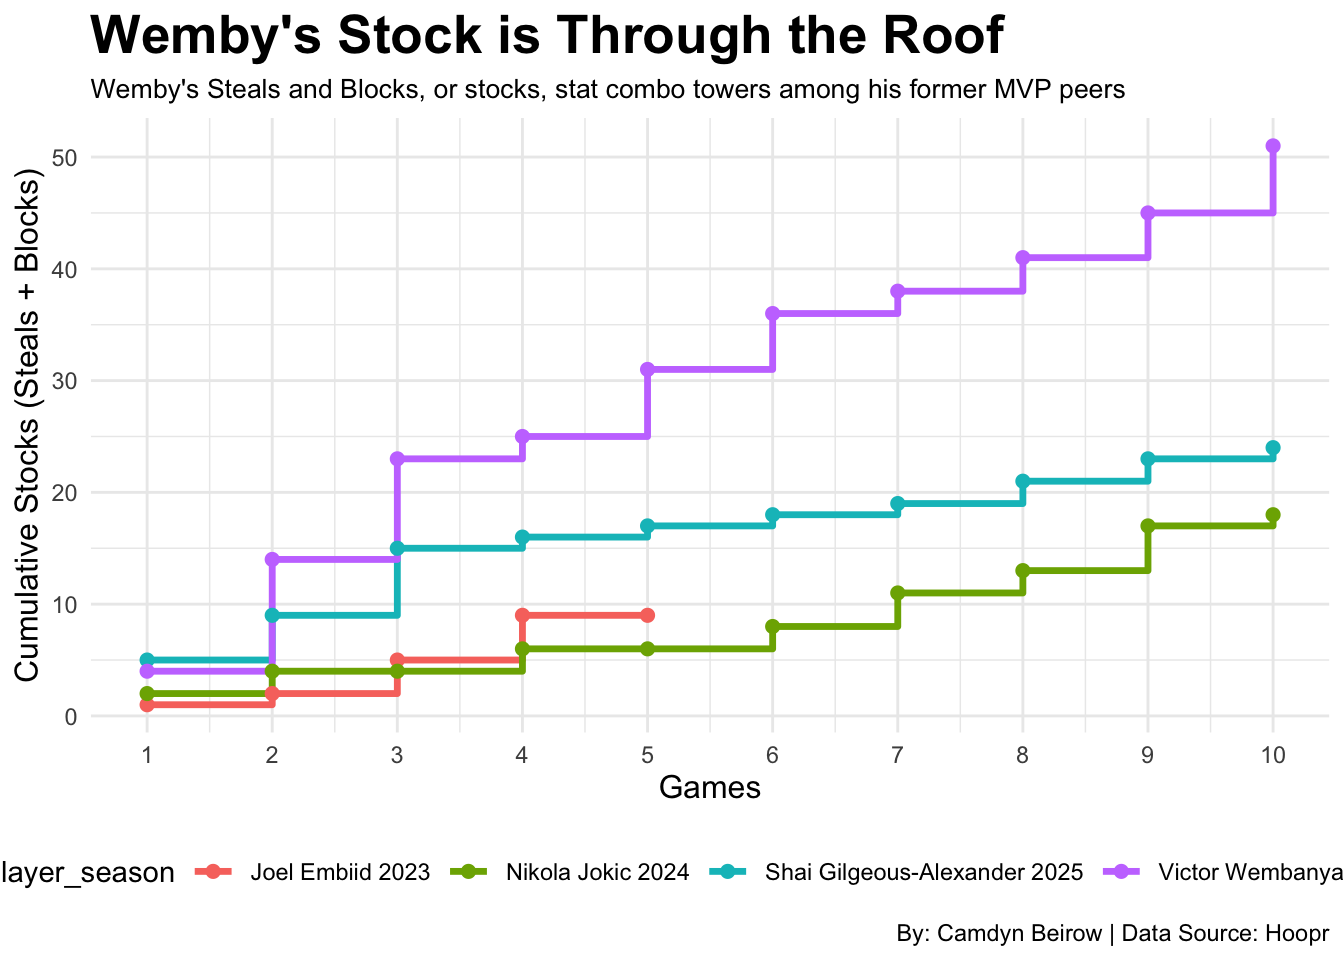
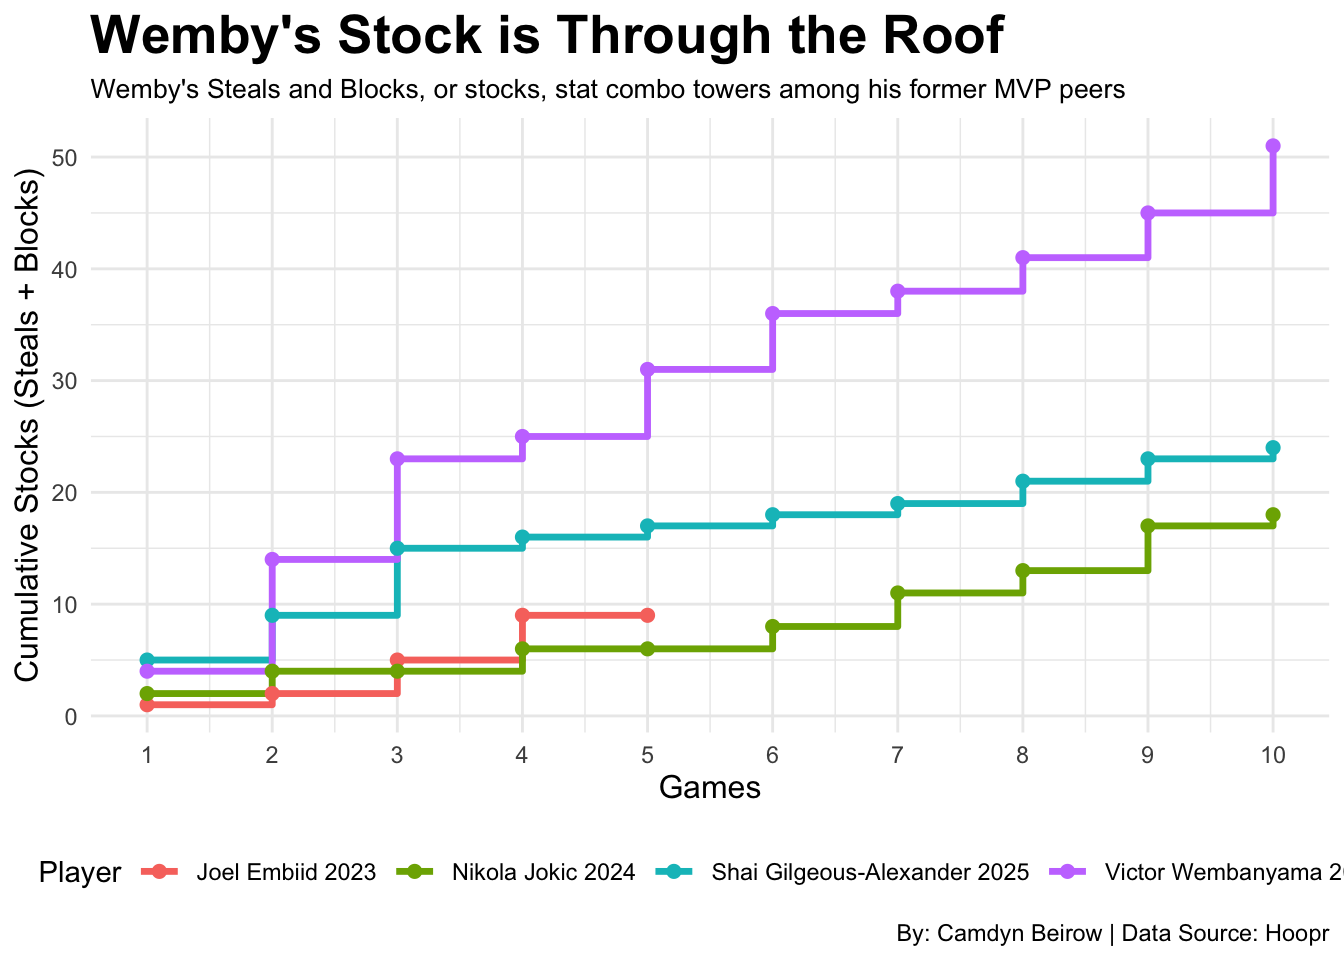
FinishingTouches

Changed region(s): [[0.0, 0.875, 1.0, 0.9375]]

diff --git a/posts/wembys-case-for-mvp/index.html b/posts/wembys-case-for-mvp/index.html
@@ -251,7 +251,7 @@ pre > code.sourceCode > span > a:first-child::before { text-decoration: underlin
 <span id="cb1-56"><a href="#cb1-56" aria-hidden="true" tabindex="-1"></a>    <span class="at">minutes =</span> <span class="fu">mean</span>(minutes, <span class="at">na.rm =</span> <span class="cn">TRUE</span>)</span>
 <span id="cb1-57"><a href="#cb1-57" aria-hidden="true" tabindex="-1"></a>  ) <span class="sc">|&gt;</span></span>
 <span id="cb1-58"><a href="#cb1-58" aria-hidden="true" tabindex="-1"></a>  <span class="fu">ungroup</span>() <span class="sc">|&gt;</span></span>
-<span id="cb1-59"><a href="#cb1-59" aria-hidden="true" tabindex="-1"></a>  <span class="fu">mutate</span>(<span class="at">player_season =</span> <span class="fu">paste</span>(athlete_display_name, season))</span>
+<span id="cb1-59"><a href="#cb1-59" aria-hidden="true" tabindex="-1"></a>  <span class="fu">mutate</span>(<span class="at">Player =</span> <span class="fu">paste</span>(athlete_display_name, season))</span>
 <span id="cb1-60"><a href="#cb1-60" aria-hidden="true" tabindex="-1"></a></span>
 <span id="cb1-61"><a href="#cb1-61" aria-hidden="true" tabindex="-1"></a>season_2026_data <span class="ot">&lt;-</span> <span class="fu">load_nba_player_box</span>(<span class="at">seasons =</span> <span class="dv">2026</span>) <span class="sc">|&gt;</span></span>
 <span id="cb1-62"><a href="#cb1-62" aria-hidden="true" tabindex="-1"></a>  <span class="fu">filter</span>(season_type <span class="sc">==</span> <span class="dv">2</span>)  </span>
@@ -282,7 +282,7 @@ pre > code.sourceCode > span > a:first-child::before { text-decoration: underlin
 <span id="cb1-87"><a href="#cb1-87" aria-hidden="true" tabindex="-1"></a>    <span class="at">cumulative_stocks =</span> <span class="fu">cumsum</span>(stocks)</span>
 <span id="cb1-88"><a href="#cb1-88" aria-hidden="true" tabindex="-1"></a>  ) <span class="sc">|&gt;</span></span>
 <span id="cb1-89"><a href="#cb1-89" aria-hidden="true" tabindex="-1"></a>  <span class="fu">ungroup</span>() <span class="sc">|&gt;</span></span>
-<span id="cb1-90"><a href="#cb1-90" aria-hidden="true" tabindex="-1"></a>  <span class="fu">mutate</span>(<span class="at">player_season =</span> <span class="fu">paste</span>(athlete_display_name, season))</span>
+<span id="cb1-90"><a href="#cb1-90" aria-hidden="true" tabindex="-1"></a>  <span class="fu">mutate</span>(<span class="at">Player =</span> <span class="fu">paste</span>(athlete_display_name, season))</span>
 <span id="cb1-91"><a href="#cb1-91" aria-hidden="true" tabindex="-1"></a></span>
 <span id="cb1-92"><a href="#cb1-92" aria-hidden="true" tabindex="-1"></a>fg_pct_minutes <span class="ot">&lt;-</span> season_2026_data <span class="sc">|&gt;</span></span>
 <span id="cb1-93"><a href="#cb1-93" aria-hidden="true" tabindex="-1"></a>  <span class="fu">group_by</span>(athlete_display_name) <span class="sc">|&gt;</span></span>
@@ -368,7 +368,7 @@ pre > code.sourceCode > span > a:first-child::before { text-decoration: underlin
 <details class="code-fold">
 <summary>Code</summary>
 <div class="sourceCode cell-code" id="cb3"><pre class="sourceCode r code-with-copy"><code class="sourceCode r"><span id="cb3-1"><a href="#cb3-1" aria-hidden="true" tabindex="-1"></a><span class="fu">ggplot</span>(<span class="at">data=</span> cumulative_stocks, <span class="fu">aes</span>(<span class="at">x =</span> game_number, <span class="at">y =</span> cumulative_stocks, </span>
-<span id="cb3-2"><a href="#cb3-2" aria-hidden="true" tabindex="-1"></a>                             <span class="at">color =</span> player_season, <span class="at">group =</span> player_season)) <span class="sc">+</span></span>
+<span id="cb3-2"><a href="#cb3-2" aria-hidden="true" tabindex="-1"></a>                             <span class="at">color =</span> Player, <span class="at">group =</span> Player)) <span class="sc">+</span></span>
 <span id="cb3-3"><a href="#cb3-3" aria-hidden="true" tabindex="-1"></a>  <span class="fu">geom_step</span>(<span class="at">linewidth =</span> <span class="fl">1.2</span>) <span class="sc">+</span></span>
 <span id="cb3-4"><a href="#cb3-4" aria-hidden="true" tabindex="-1"></a>  <span class="fu">geom_point</span>(<span class="at">size =</span> <span class="dv">2</span>) <span class="sc">+</span></span>
 <span id="cb3-5"><a href="#cb3-5" aria-hidden="true" tabindex="-1"></a>  <span class="fu">labs</span>(<span class="at">title =</span> <span class="st">"Wemby's Stock is Through the Roof"</span>,</span>

diff --git a/index.html b/index.html
@@ -205,7 +205,7 @@ window.Quarto = {
 
 <div class="quarto-listing quarto-listing-container-default" id="listing-listing">
 <div class="list quarto-listing-default">
-<div class="quarto-post image-right" data-index="0" data-categories="TkJBJTJDV2VtYmFueWFtYQ==" data-listing-date-sort="1762236000000" data-listing-file-modified-sort="1763331052893" data-listing-date-modified-sort="NaN" data-listing-reading-time-sort="10" data-listing-word-count-sort="1815">
+<div class="quarto-post image-right" data-index="0" data-categories="TkJBJTJDV2VtYmFueWFtYQ==" data-listing-date-sort="1762236000000" data-listing-file-modified-sort="1763331467730" data-listing-date-modified-sort="NaN" data-listing-reading-time-sort="10" data-listing-word-count-sort="1815">
 <div class="thumbnail">
 <p><a href="./posts/wembys-case-for-mvp/index.html" class="no-external"></a></p><a href="./posts/wembys-case-for-mvp/index.html" class="no-external">
 <p><img loading="lazy" src="./posts/wembys-case-for-mvp/image.png" class="thumbnail-image"></p>
